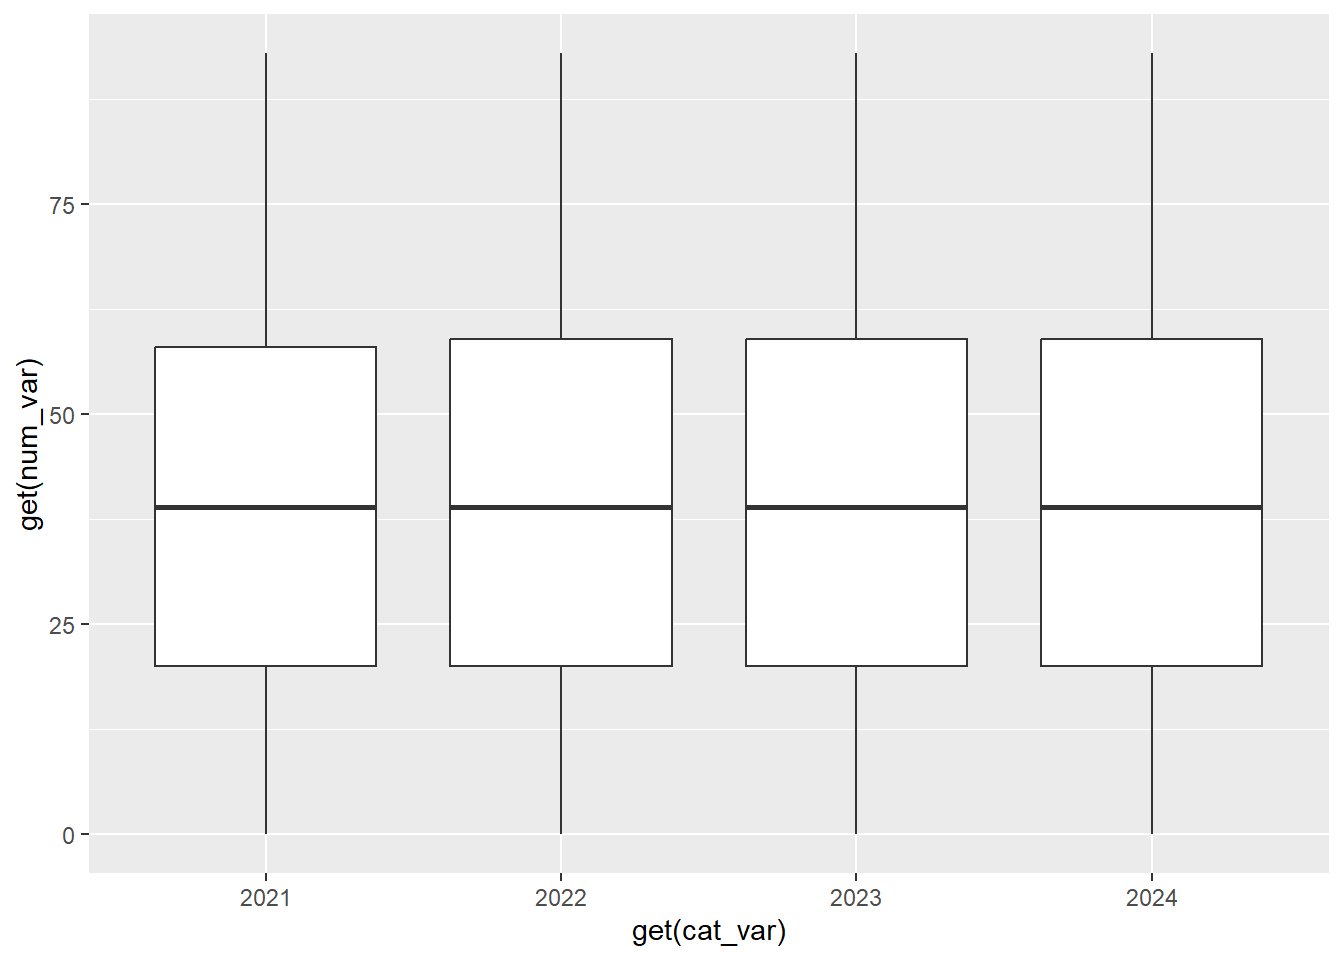
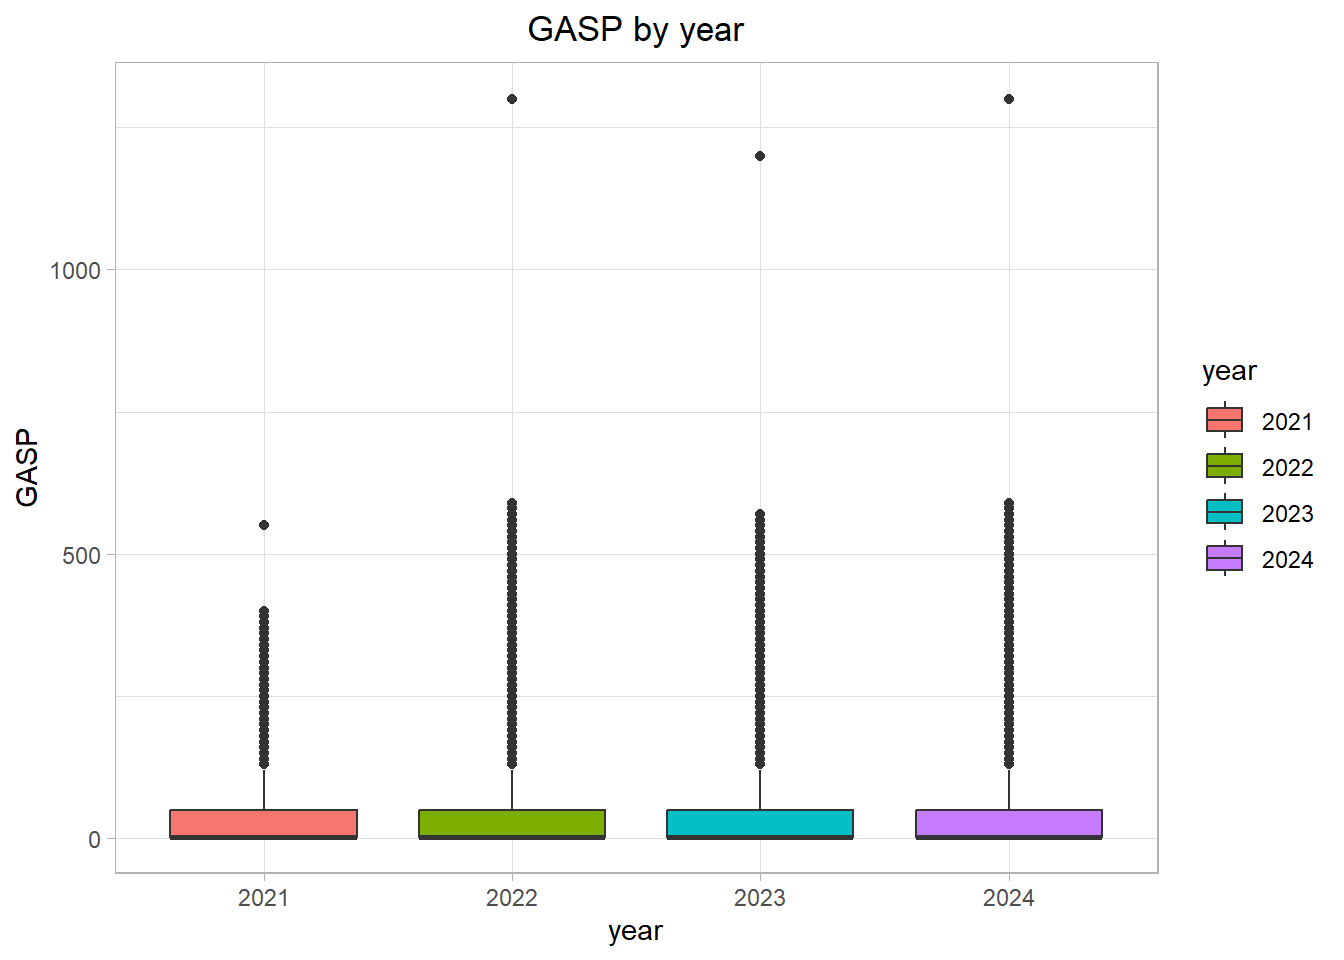
Generic functions.

diff --git a/docs/Project1.html b/docs/Project1.html
@@ -1137,30 +1137,105 @@ $`2`
 <p>Write a function that produces means and standard deviations for our numeric variable(s) (ignore the time variables) and counts for our categorical variable(s) (year should be treated as categorical).</p>
 <div class="cell">
 <div class="code-copy-outer-scaffold"><div class="sourceCode cell-code" id="cb99"><pre class="sourceCode r code-with-copy"><code class="sourceCode r"><span id="cb99-1"><a href="#cb99-1" aria-hidden="true" tabindex="-1"></a>summary.census <span class="ot">&lt;-</span> <span class="cf">function</span>(tibble, nvar, cvar){</span>
-<span id="cb99-2"><a href="#cb99-2" aria-hidden="true" tabindex="-1"></a></span>
-<span id="cb99-3"><a href="#cb99-3" aria-hidden="true" tabindex="-1"></a>  <span class="co">#sum(numeric_vector*weight_vector)/sum(weight_vector)</span></span>
-<span id="cb99-4"><a href="#cb99-4" aria-hidden="true" tabindex="-1"></a>  </span>
-<span id="cb99-5"><a href="#cb99-5" aria-hidden="true" tabindex="-1"></a>  <span class="co">#sqrt(sum(numeric_vectorˆ2*weight_vector)/sum(weight_vector)-sample_meanˆ2)</span></span>
-<span id="cb99-6"><a href="#cb99-6" aria-hidden="true" tabindex="-1"></a>}</span></code></pre></div><button title="Copy to Clipboard" class="code-copy-button"><i class="bi"></i></button></div>
+<span id="cb99-2"><a href="#cb99-2" aria-hidden="true" tabindex="-1"></a>  </span>
+<span id="cb99-3"><a href="#cb99-3" aria-hidden="true" tabindex="-1"></a>  <span class="co">#initialize empty lists for the results</span></span>
+<span id="cb99-4"><a href="#cb99-4" aria-hidden="true" tabindex="-1"></a>  numeric_results <span class="ot">&lt;-</span> <span class="fu">list</span>()</span>
+<span id="cb99-5"><a href="#cb99-5" aria-hidden="true" tabindex="-1"></a>  categorical_results <span class="ot">&lt;-</span> <span class="fu">list</span>()</span>
+<span id="cb99-6"><a href="#cb99-6" aria-hidden="true" tabindex="-1"></a>  </span>
+<span id="cb99-7"><a href="#cb99-7" aria-hidden="true" tabindex="-1"></a>  <span class="co">#summarize numeric variables</span></span>
+<span id="cb99-8"><a href="#cb99-8" aria-hidden="true" tabindex="-1"></a>  <span class="cf">for</span> (x <span class="cf">in</span> nvar){</span>
+<span id="cb99-9"><a href="#cb99-9" aria-hidden="true" tabindex="-1"></a>    sample_mean <span class="ot">&lt;-</span> <span class="fu">sum</span>(tibble[[x]]<span class="sc">*</span>tibble<span class="sc">$</span>PWGTP) <span class="sc">/</span> <span class="fu">sum</span>(tibble<span class="sc">$</span>PWGTP)</span>
+<span id="cb99-10"><a href="#cb99-10" aria-hidden="true" tabindex="-1"></a>    </span>
+<span id="cb99-11"><a href="#cb99-11" aria-hidden="true" tabindex="-1"></a>    sample_sd <span class="ot">&lt;-</span> <span class="fu">sqrt</span>(<span class="fu">sum</span>(tibble[[x]]<span class="sc">^</span><span class="dv">2</span><span class="sc">*</span>tibble<span class="sc">$</span>PWGTP) <span class="sc">/</span> <span class="fu">sum</span>(tibble<span class="sc">$</span>PWGTP)<span class="sc">-</span>sample_mean<span class="sc">^</span><span class="dv">2</span>)</span>
+<span id="cb99-12"><a href="#cb99-12" aria-hidden="true" tabindex="-1"></a>    </span>
+<span id="cb99-13"><a href="#cb99-13" aria-hidden="true" tabindex="-1"></a>    numeric_results[[x]] <span class="ot">&lt;-</span> <span class="fu">c</span>(<span class="at">sample_mean =</span> sample_mean,</span>
+<span id="cb99-14"><a href="#cb99-14" aria-hidden="true" tabindex="-1"></a>                         <span class="at">sample_sd =</span> sample_sd)</span>
+<span id="cb99-15"><a href="#cb99-15" aria-hidden="true" tabindex="-1"></a>  }</span>
+<span id="cb99-16"><a href="#cb99-16" aria-hidden="true" tabindex="-1"></a>  </span>
+<span id="cb99-17"><a href="#cb99-17" aria-hidden="true" tabindex="-1"></a>  <span class="co">#summarize categorical variables</span></span>
+<span id="cb99-18"><a href="#cb99-18" aria-hidden="true" tabindex="-1"></a>  <span class="cf">for</span> (x <span class="cf">in</span> cvar){</span>
+<span id="cb99-19"><a href="#cb99-19" aria-hidden="true" tabindex="-1"></a>    categorical_results[[x]] <span class="ot">&lt;-</span> <span class="fu">table</span>(tibble[[x]], <span class="at">useNA =</span> <span class="st">"always"</span>)</span>
+<span id="cb99-20"><a href="#cb99-20" aria-hidden="true" tabindex="-1"></a>  }</span>
+<span id="cb99-21"><a href="#cb99-21" aria-hidden="true" tabindex="-1"></a>  </span>
+<span id="cb99-22"><a href="#cb99-22" aria-hidden="true" tabindex="-1"></a>  results <span class="ot">&lt;-</span> <span class="fu">list</span>(<span class="at">numeric =</span> numeric_results,</span>
+<span id="cb99-23"><a href="#cb99-23" aria-hidden="true" tabindex="-1"></a>                  <span class="at">categorical =</span> categorical_results)</span>
+<span id="cb99-24"><a href="#cb99-24" aria-hidden="true" tabindex="-1"></a>  </span>
+<span id="cb99-25"><a href="#cb99-25" aria-hidden="true" tabindex="-1"></a>  <span class="fu">return</span>(results)</span>
+<span id="cb99-26"><a href="#cb99-26" aria-hidden="true" tabindex="-1"></a>}</span></code></pre></div><button title="Copy to Clipboard" class="code-copy-button"><i class="bi"></i></button></div>
 </div>
 <p>Examples:</p>
+<div class="cell">
+<div class="code-copy-outer-scaffold"><div class="sourceCode cell-code" id="cb100"><pre class="sourceCode r code-with-copy"><code class="sourceCode r"><span id="cb100-1"><a href="#cb100-1" aria-hidden="true" tabindex="-1"></a><span class="fu">summary</span>(example6, <span class="fu">c</span>(<span class="st">"AGEP"</span>, <span class="st">"GASP"</span>), <span class="fu">c</span>(<span class="st">"SEX"</span>, <span class="st">"SCH"</span>, <span class="st">"year"</span>))</span></code></pre></div><button title="Copy to Clipboard" class="code-copy-button"><i class="bi"></i></button></div>
+<div class="cell-output cell-output-stdout">
+<pre><code>$numeric
+$numeric$AGEP
+sample_mean   sample_sd 
+   39.67205    23.20707 
+
+$numeric$GASP
+sample_mean   sample_sd 
+   46.06164   111.93232 
+
+
+$categorical
+$categorical$SEX
+
+  Male Female   &lt;NA&gt; 
+213464 226293      0 
+
+$categorical$SCH
+
+                  N/A (less than 3 years old) 
+                                        11400 
+Yes, private school or college or home school 
+                                        19512 
+    No, has not attended in the last 3 months 
+                                       334557 
+         Yes, public school or public college 
+                                        74288 
+                                         &lt;NA&gt; 
+                                            0 
+
+$categorical$year
+
+  2021   2022   2023   2024   &lt;NA&gt; 
+104337 109230 111920 114270      0 </code></pre>
+</div>
+</div>
 </section>
 <section id="graphical-summaries" class="level4">
 <h4 class="anchored" data-anchor-id="graphical-summaries">Graphical Summaries</h4>
 <p>Create a generic <code>plot()</code> function for a <code>census</code> class tibble which creates a boxplot of a numeric variable at the levels of the categorical variable.</p>
 <div class="cell">
-<div class="code-copy-outer-scaffold"><div class="sourceCode cell-code" id="cb100"><pre class="sourceCode r code-with-copy"><code class="sourceCode r"><span id="cb100-1"><a href="#cb100-1" aria-hidden="true" tabindex="-1"></a>plot.census <span class="ot">&lt;-</span> <span class="cf">function</span>(tibble, num_var, cat_var){</span>
-<span id="cb100-2"><a href="#cb100-2" aria-hidden="true" tabindex="-1"></a>  </span>
-<span id="cb100-3"><a href="#cb100-3" aria-hidden="true" tabindex="-1"></a>g <span class="ot">&lt;-</span> <span class="fu">ggplot</span>(tibble)</span>
-<span id="cb100-4"><a href="#cb100-4" aria-hidden="true" tabindex="-1"></a></span>
-<span id="cb100-5"><a href="#cb100-5" aria-hidden="true" tabindex="-1"></a>g <span class="sc">+</span> <span class="fu">geom_boxplot</span>(<span class="fu">aes</span>(<span class="at">x =</span> <span class="fu">get</span>(cat_var),</span>
-<span id="cb100-6"><a href="#cb100-6" aria-hidden="true" tabindex="-1"></a>                     <span class="at">y =</span> <span class="fu">get</span>(num_var),</span>
-<span id="cb100-7"><a href="#cb100-7" aria-hidden="true" tabindex="-1"></a>                     <span class="at">weight =</span> PWGTP))</span>
-<span id="cb100-8"><a href="#cb100-8" aria-hidden="true" tabindex="-1"></a>}</span></code></pre></div><button title="Copy to Clipboard" class="code-copy-button"><i class="bi"></i></button></div>
+<div class="code-copy-outer-scaffold"><div class="sourceCode cell-code" id="cb102"><pre class="sourceCode r code-with-copy"><code class="sourceCode r"><span id="cb102-1"><a href="#cb102-1" aria-hidden="true" tabindex="-1"></a>plot.census <span class="ot">&lt;-</span> <span class="cf">function</span>(tibble, num_var, cat_var){</span>
+<span id="cb102-2"><a href="#cb102-2" aria-hidden="true" tabindex="-1"></a></span>
+<span id="cb102-3"><a href="#cb102-3" aria-hidden="true" tabindex="-1"></a><span class="co">#initialize the plot</span></span>
+<span id="cb102-4"><a href="#cb102-4" aria-hidden="true" tabindex="-1"></a><span class="fu">ggplot</span>(tibble) <span class="sc">+</span></span>
+<span id="cb102-5"><a href="#cb102-5" aria-hidden="true" tabindex="-1"></a>    </span>
+<span id="cb102-6"><a href="#cb102-6" aria-hidden="true" tabindex="-1"></a>    <span class="co">#add boxplot layer</span></span>
+<span id="cb102-7"><a href="#cb102-7" aria-hidden="true" tabindex="-1"></a>    <span class="fu">geom_boxplot</span>(<span class="fu">aes</span>(<span class="at">x =</span> <span class="fu">get</span>(cat_var),</span>
+<span id="cb102-8"><a href="#cb102-8" aria-hidden="true" tabindex="-1"></a>                     <span class="at">y =</span> <span class="fu">get</span>(num_var),</span>
+<span id="cb102-9"><a href="#cb102-9" aria-hidden="true" tabindex="-1"></a>                     <span class="at">fill =</span> <span class="fu">get</span>(cat_var),</span>
+<span id="cb102-10"><a href="#cb102-10" aria-hidden="true" tabindex="-1"></a>                     <span class="at">weight =</span> PWGTP)) <span class="sc">+</span></span>
+<span id="cb102-11"><a href="#cb102-11" aria-hidden="true" tabindex="-1"></a>    </span>
+<span id="cb102-12"><a href="#cb102-12" aria-hidden="true" tabindex="-1"></a>    <span class="co">#set x and y labels and title</span></span>
+<span id="cb102-13"><a href="#cb102-13" aria-hidden="true" tabindex="-1"></a>    <span class="fu">labs</span>(<span class="at">title =</span> <span class="fu">paste</span>(num_var, cat_var, <span class="at">sep =</span> <span class="st">" by "</span>),</span>
+<span id="cb102-14"><a href="#cb102-14" aria-hidden="true" tabindex="-1"></a>         <span class="at">x =</span> cat_var,</span>
+<span id="cb102-15"><a href="#cb102-15" aria-hidden="true" tabindex="-1"></a>         <span class="at">y =</span> num_var) <span class="sc">+</span></span>
+<span id="cb102-16"><a href="#cb102-16" aria-hidden="true" tabindex="-1"></a>    </span>
+<span id="cb102-17"><a href="#cb102-17" aria-hidden="true" tabindex="-1"></a>    <span class="co">#set legend label</span></span>
+<span id="cb102-18"><a href="#cb102-18" aria-hidden="true" tabindex="-1"></a>    <span class="fu">scale_fill_discrete</span>(cat_var) <span class="sc">+</span></span>
+<span id="cb102-19"><a href="#cb102-19" aria-hidden="true" tabindex="-1"></a>    </span>
+<span id="cb102-20"><a href="#cb102-20" aria-hidden="true" tabindex="-1"></a>    <span class="co">#set the color theme</span></span>
+<span id="cb102-21"><a href="#cb102-21" aria-hidden="true" tabindex="-1"></a>    <span class="fu">theme_light</span>() <span class="sc">+</span></span>
+<span id="cb102-22"><a href="#cb102-22" aria-hidden="true" tabindex="-1"></a>  </span>
+<span id="cb102-23"><a href="#cb102-23" aria-hidden="true" tabindex="-1"></a>    <span class="co">#center the title</span></span>
+<span id="cb102-24"><a href="#cb102-24" aria-hidden="true" tabindex="-1"></a>    <span class="fu">theme</span>(<span class="at">plot.title =</span> <span class="fu">element_text</span>(<span class="at">hjust =</span> <span class="fl">0.5</span>))</span>
+<span id="cb102-25"><a href="#cb102-25" aria-hidden="true" tabindex="-1"></a>}</span></code></pre></div><button title="Copy to Clipboard" class="code-copy-button"><i class="bi"></i></button></div>
 </div>
 <p>Examples:</p>
 <div class="cell">
-<div class="code-copy-outer-scaffold"><div class="sourceCode cell-code" id="cb101"><pre class="sourceCode r code-with-copy"><code class="sourceCode r"><span id="cb101-1"><a href="#cb101-1" aria-hidden="true" tabindex="-1"></a><span class="fu">plot</span>(example6, <span class="st">"AGEP"</span>, <span class="st">"SEX"</span>)</span></code></pre></div><button title="Copy to Clipboard" class="code-copy-button"><i class="bi"></i></button></div>
+<div class="code-copy-outer-scaffold"><div class="sourceCode cell-code" id="cb103"><pre class="sourceCode r code-with-copy"><code class="sourceCode r"><span id="cb103-1"><a href="#cb103-1" aria-hidden="true" tabindex="-1"></a><span class="fu">plot</span>(example6, <span class="st">"AGEP"</span>, <span class="st">"SEX"</span>)</span></code></pre></div><button title="Copy to Clipboard" class="code-copy-button"><i class="bi"></i></button></div>
 <div class="cell-output-display">
 <div>
 <figure class="figure">
@@ -1168,7 +1243,7 @@ $`2`
 </figure>
 </div>
 </div>
-<div class="code-copy-outer-scaffold"><div class="sourceCode cell-code" id="cb102"><pre class="sourceCode r code-with-copy"><code class="sourceCode r"><span id="cb102-1"><a href="#cb102-1" aria-hidden="true" tabindex="-1"></a><span class="fu">plot</span>(example6, <span class="st">"AGEP"</span>, <span class="st">"year"</span>)</span></code></pre></div><button title="Copy to Clipboard" class="code-copy-button"><i class="bi"></i></button></div>
+<div class="code-copy-outer-scaffold"><div class="sourceCode cell-code" id="cb104"><pre class="sourceCode r code-with-copy"><code class="sourceCode r"><span id="cb104-1"><a href="#cb104-1" aria-hidden="true" tabindex="-1"></a><span class="fu">plot</span>(example6, <span class="st">"GASP"</span>, <span class="st">"year"</span>)</span></code></pre></div><button title="Copy to Clipboard" class="code-copy-button"><i class="bi"></i></button></div>
 <div class="cell-output-display">
 <div>
 <figure class="figure">
